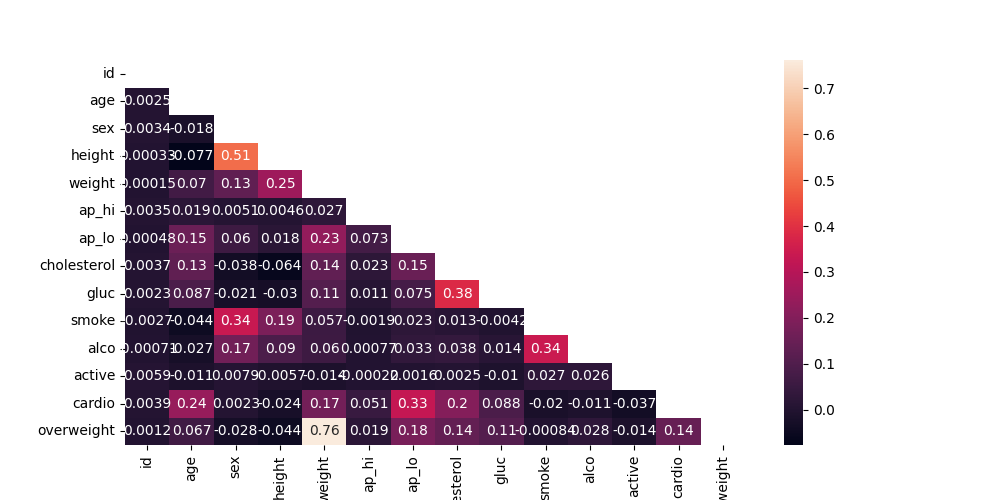
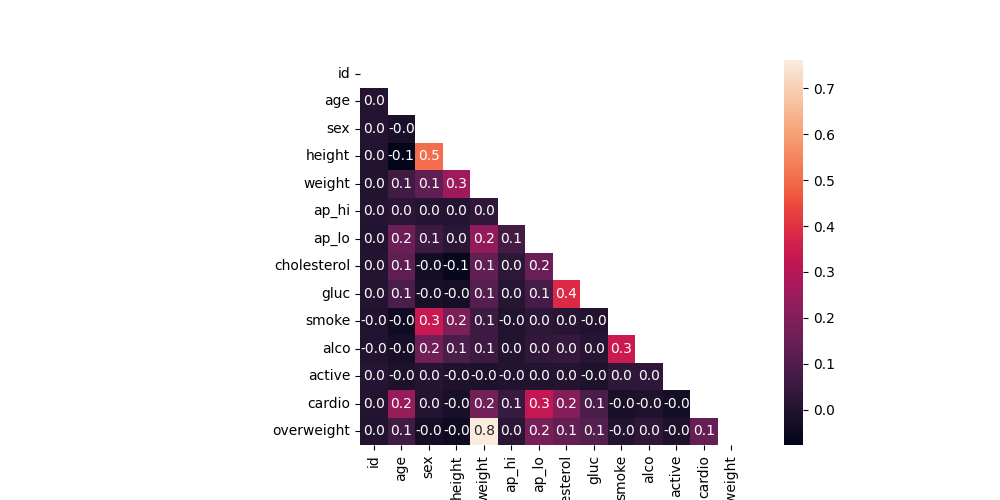
wip

diff --git a/medical_data_visualizer.py b/medical_data_visualizer.py
@@ -22,11 +22,11 @@ def draw_cat_plot():
     df_cat = df_cat.groupby(['cardio', 'variable', 'value'], as_index = False).size().rename(columns={'size':'total'})
 
     # 7
-    long = sns.catplot(data=df_cat, x='variable', y='total', kind='box', hue='cardio')
+    long = sns.catplot(data=df_cat, x='variable', y='total', kind='bar', hue='value', col='cardio', height=5, aspect=2)
 
 
     # 8
-    fig = long
+    fig = long.figure
 
 
     # 9
@@ -54,12 +54,10 @@ def draw_heat_map():
 
 
     # 14
-    fig, ax = plt.subplots(figsize=(10, 5))
-    ax = sns.heatmap(corr, mask=mask, annot=True)
+    fig, ax = plt.subplots(figsize=(10, 5))    
 
     # 15
-
-
+    sns.heatmap(corr, mask=mask, square=True, annot=True, fmt=".01f")
 
     # 16
     fig.savefig('heatmap.png')
